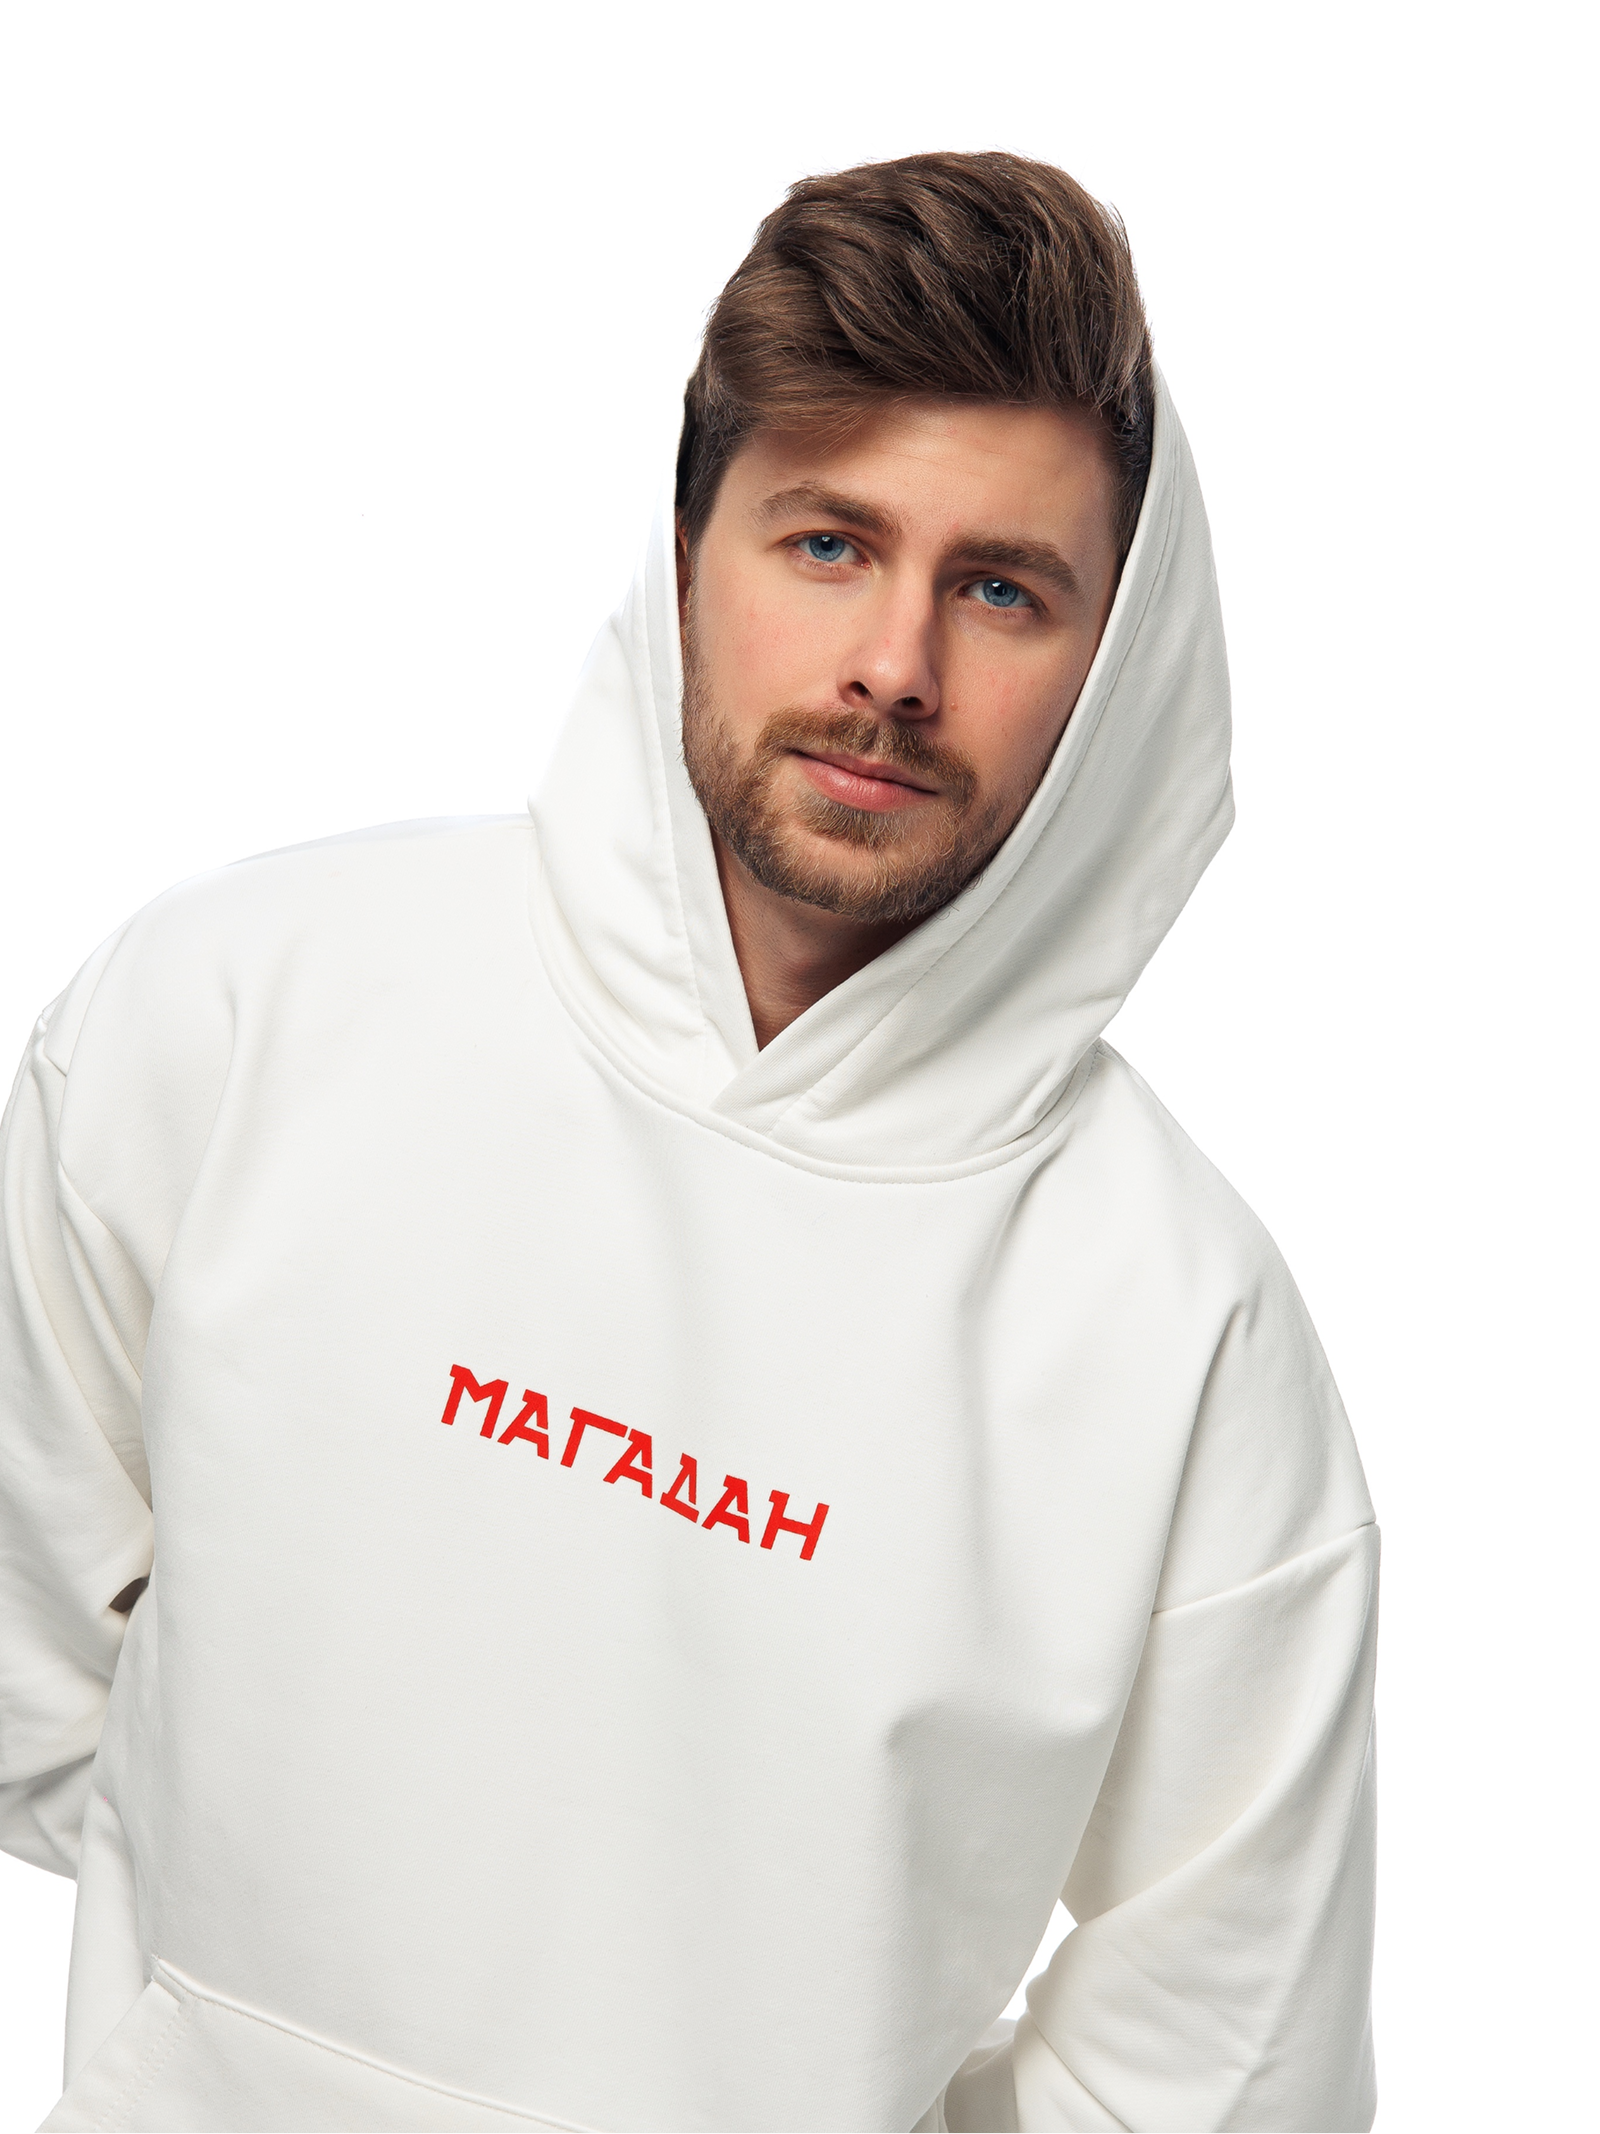
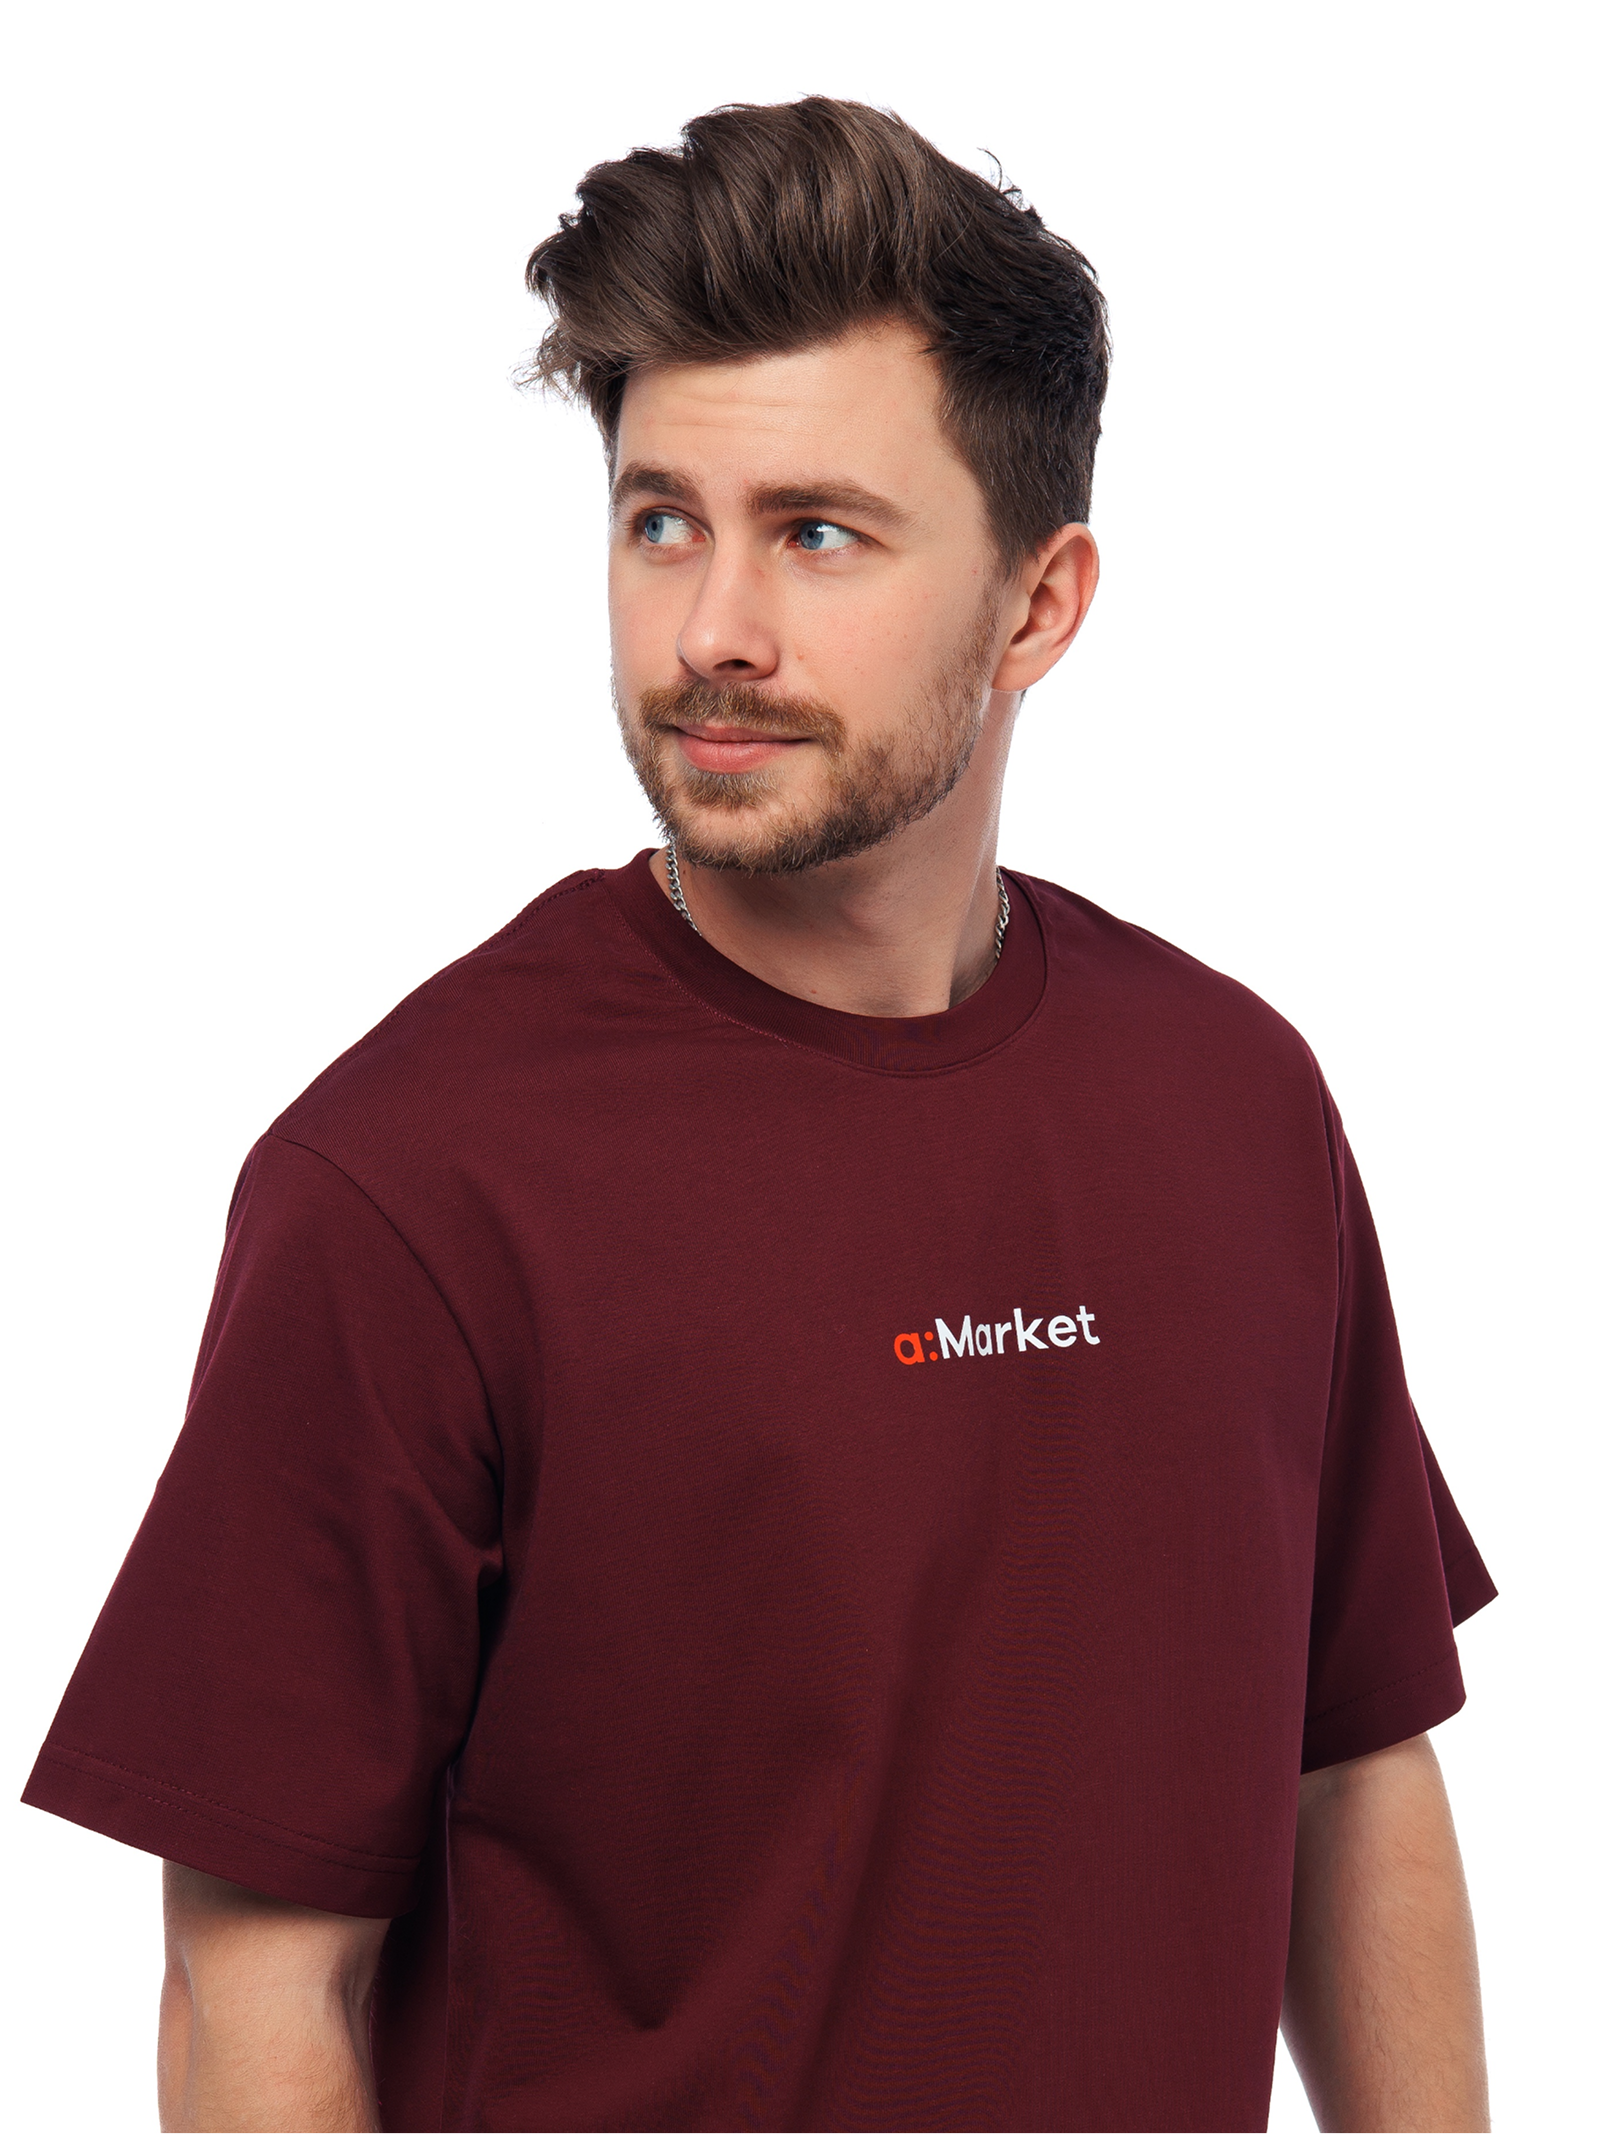
Заменил картинки в каталоге

diff --git a/src/views/catalog-products/model/catalog-products-data.ts b/src/views/catalog-products/model/catalog-products-data.ts
@@ -5,13 +5,13 @@ import { PARTNER_CATALOG_ALL_FILTER_ID, getPartnerCatalogData } from "@/views/pa
 import { getPartnerCatalogPathForFilter } from "@/views/partner-catalog/model/partner-catalog-query";
 
 const HERO_PORTRAITS: CatalogProductsLandingPortrait[] = [
-  { src: "/catalog-products/1.png", alt: "Изображение каталога продукции 1" },
-  { src: "/catalog-products/2.png", alt: "Изображение каталога продукции 2" },
-  { src: "/catalog-products/3.png", alt: "Изображение каталога продукции 3" },
+  { src: "/catalog-products/1.webp", alt: "Изображение каталога продукции 1" },
+  { src: "/catalog-products/2.webp", alt: "Изображение каталога продукции 2" },
+  { src: "/catalog-products/3.webp", alt: "Изображение каталога продукции 3" },
   { src: "/catalog-products/4.svg", alt: "Центральное изображение каталога продукции" },
-  { src: "/catalog-products/5.png", alt: "Изображение каталога продукции 5" },
-  { src: "/catalog-products/6.png", alt: "Изображение каталога продукции 6" },
-  { src: "/catalog-products/7.png", alt: "Изображение каталога продукции 7" },
+  { src: "/catalog-products/5.webp", alt: "Изображение каталога продукции 5" },
+  { src: "/catalog-products/6.webp", alt: "Изображение каталога продукции 6" },
+  { src: "/catalog-products/7.webp", alt: "Изображение каталога продукции 7" },
 ] as const;
 
 export async function getCatalogProductsLandingData(): Promise<CatalogProductsLandingData> {

diff --git a/src/widgets/catalog-products-hero/catalog-products-hero.tsx b/src/widgets/catalog-products-hero/catalog-products-hero.tsx
@@ -7,7 +7,7 @@ type CatalogProductsHeroProps = {
   portraits: CatalogProductsLandingPortrait[];
 };
 
-const HERO_CARD_HEIGHT = "clamp(112px, 10.5vw, 208px)";
+const HERO_CARD_HEIGHT = "calc(clamp(112px, 10.5vw, 208px) * 1.1556)";
 const HERO_PORTRAIT_WIDTH = `calc(${HERO_CARD_HEIGHT} * 0.75)`;
 
 export function CatalogProductsHero({ backgroundImageUrl, portraits }: CatalogProductsHeroProps) {
